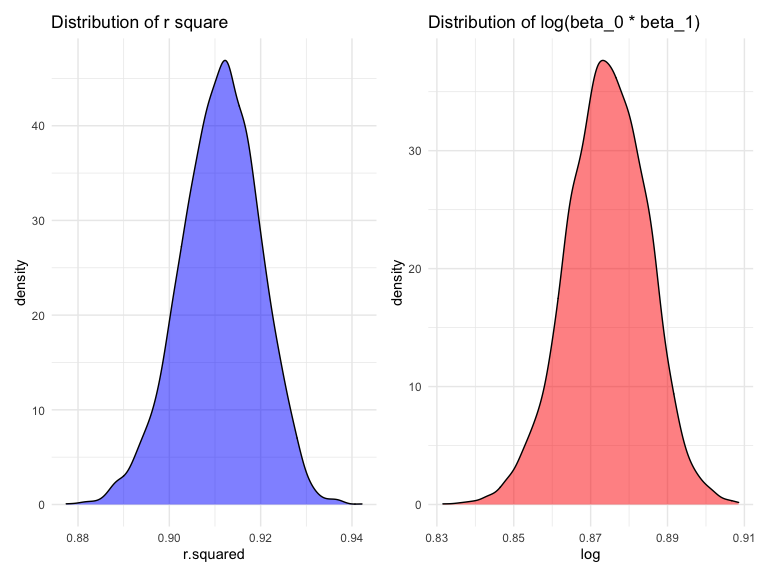
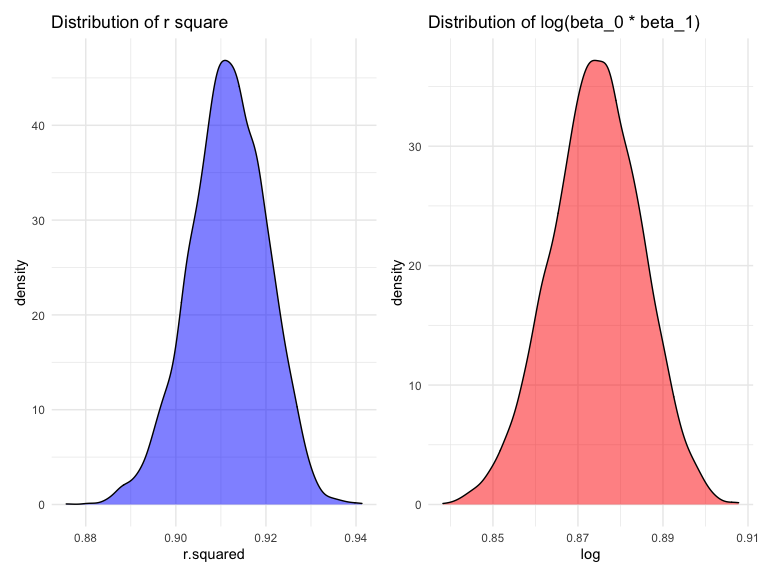
additional adjustments to Prob 2 solutions.

diff --git a/p8105_hw6_zy2442.md b/p8105_hw6_zy2442.md
@@ -275,6 +275,28 @@ cv_df =
     rmse_me    = map2_dbl(me_mod, test, ~rmse(model = .x, data = .y)),
     rmse_twi = map2_dbl(twi_mod, test, ~rmse(model = .x, data = .y)))
 
+## Calculate mean predication error of these three models.
+cv_df %>% 
+  select(starts_with("rmse")) %>% 
+  pivot_longer(
+    everything(),
+    names_to = "model", 
+    values_to = "rmse",
+    names_prefix = "rmse_") %>% 
+  group_by(model) %>% 
+  summarize(avg_rmse = mean(rmse)) %>% 
+  knitr::kable()
+```
+
+    ## `summarise()` ungrouping output (override with `.groups` argument)
+
+| model    | avg\_rmse |
+| :------- | --------: |
+| me       |  333.5112 |
+| modelfit |  482.3073 |
+| twi      |  289.4152 |
+
+``` r
 ## Finally, I’ll plot the prediction error distribution for each candidate model.
 cv_df %>% 
   select(starts_with("rmse")) %>% 
@@ -290,11 +312,11 @@ cv_df %>%
 <img src="p8105_hw6_zy2442_files/figure-gfm/unnamed-chunk-9-1.png" width="90%" />
 
 Based on the results, it is clear that the three-way interaction model
-gains the best predictive accuracy even though it still has a small
-portion of overlap with main effect model. However, my model has the
-distinctly large prediction error, which indicates the multiple linear
-model of the combination of ‘mrace’ and ‘smoken’ has the least
-predictive accuracy.
+gains the best predictive accuracy. Even though it has a small portion
+of overlap with main effect model, it still has the smallest mean
+predication error. However, my model has the distinctly large prediction
+error, which indicates the multiple linear model of the combination of
+‘mrace’ and ‘smoken’ has the least predictive accuracy.
 
 # Problem 3
 
@@ -439,7 +461,7 @@ rsquare_results %>%
 
 | CI\_lower | CI\_upper |
 | --------: | --------: |
-| 0.8934154 | 0.9270092 |
+| 0.8942559 | 0.9272295 |
 
 ``` r
 # Provide a 95% confidence interval for log(beta_0 * beta_1)
@@ -452,9 +474,9 @@ new_log_results %>%
 
 | CI\_lower | CI\_upper |
 | --------: | --------: |
-| 0.8529432 | 0.8938172 |
+| 0.8527825 | 0.8942529 |
 
   - The 95% confidence interval for r square is identified as
-    (0.8934154, 0.9270092).
+    (0.8942559, 0.9272295).
   - The 95% confidence interval for log(β̂ 0∗β̂ 1) is identified as
-    (0.8529432, 0.8938172).
+    (0.8527825, 0.8942529).
